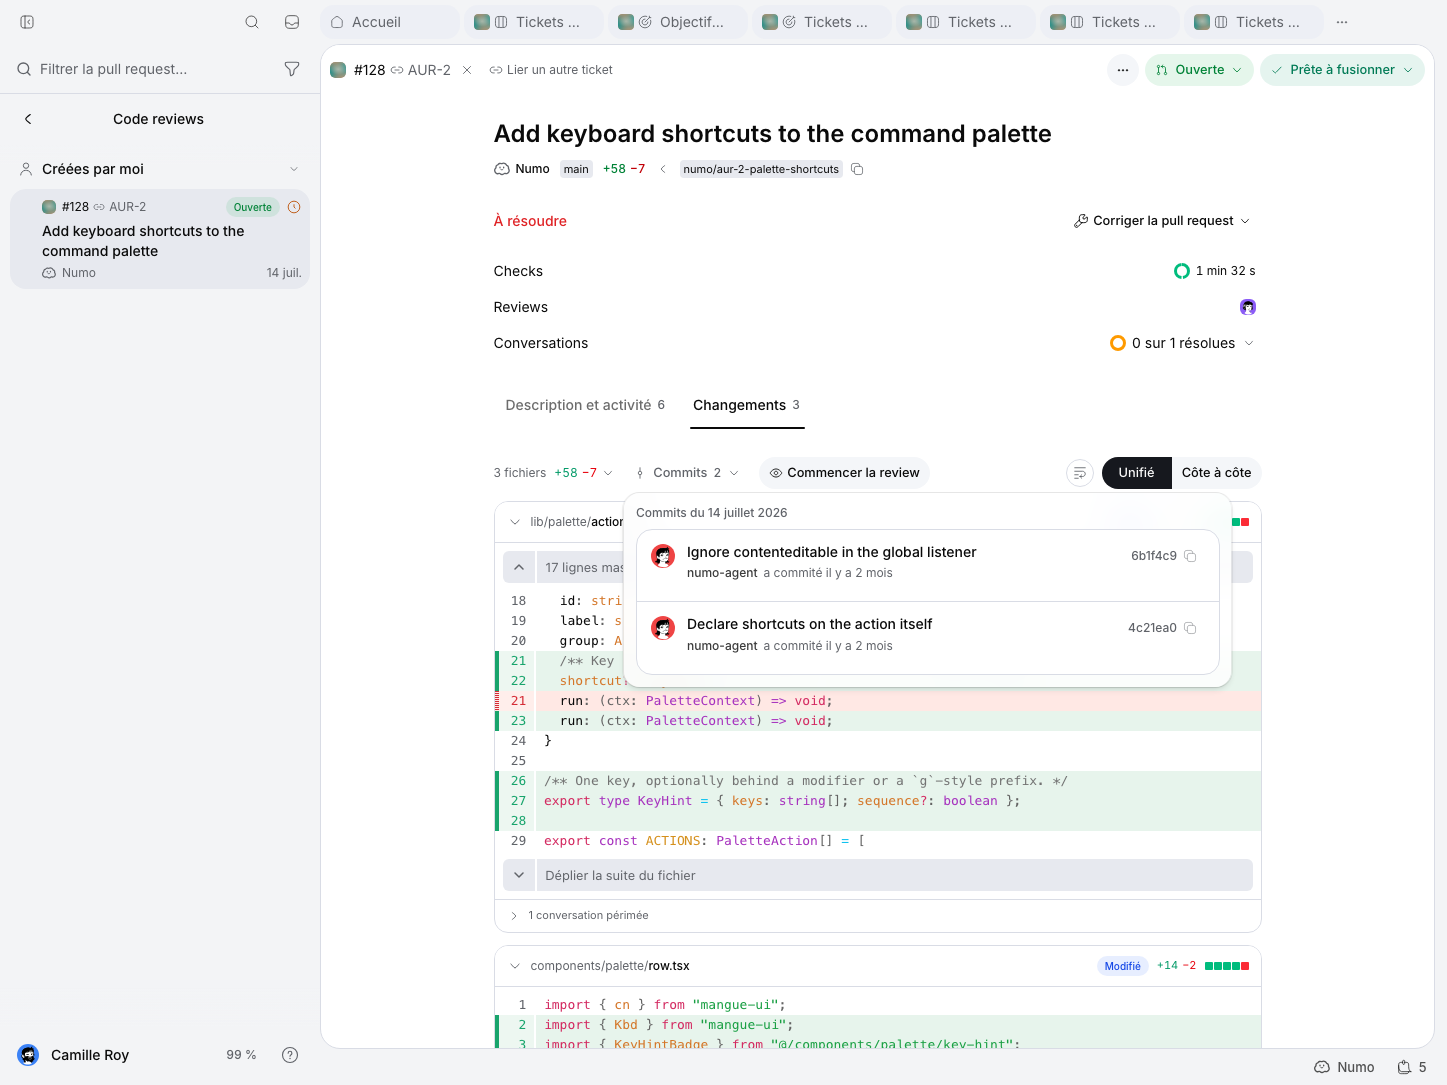
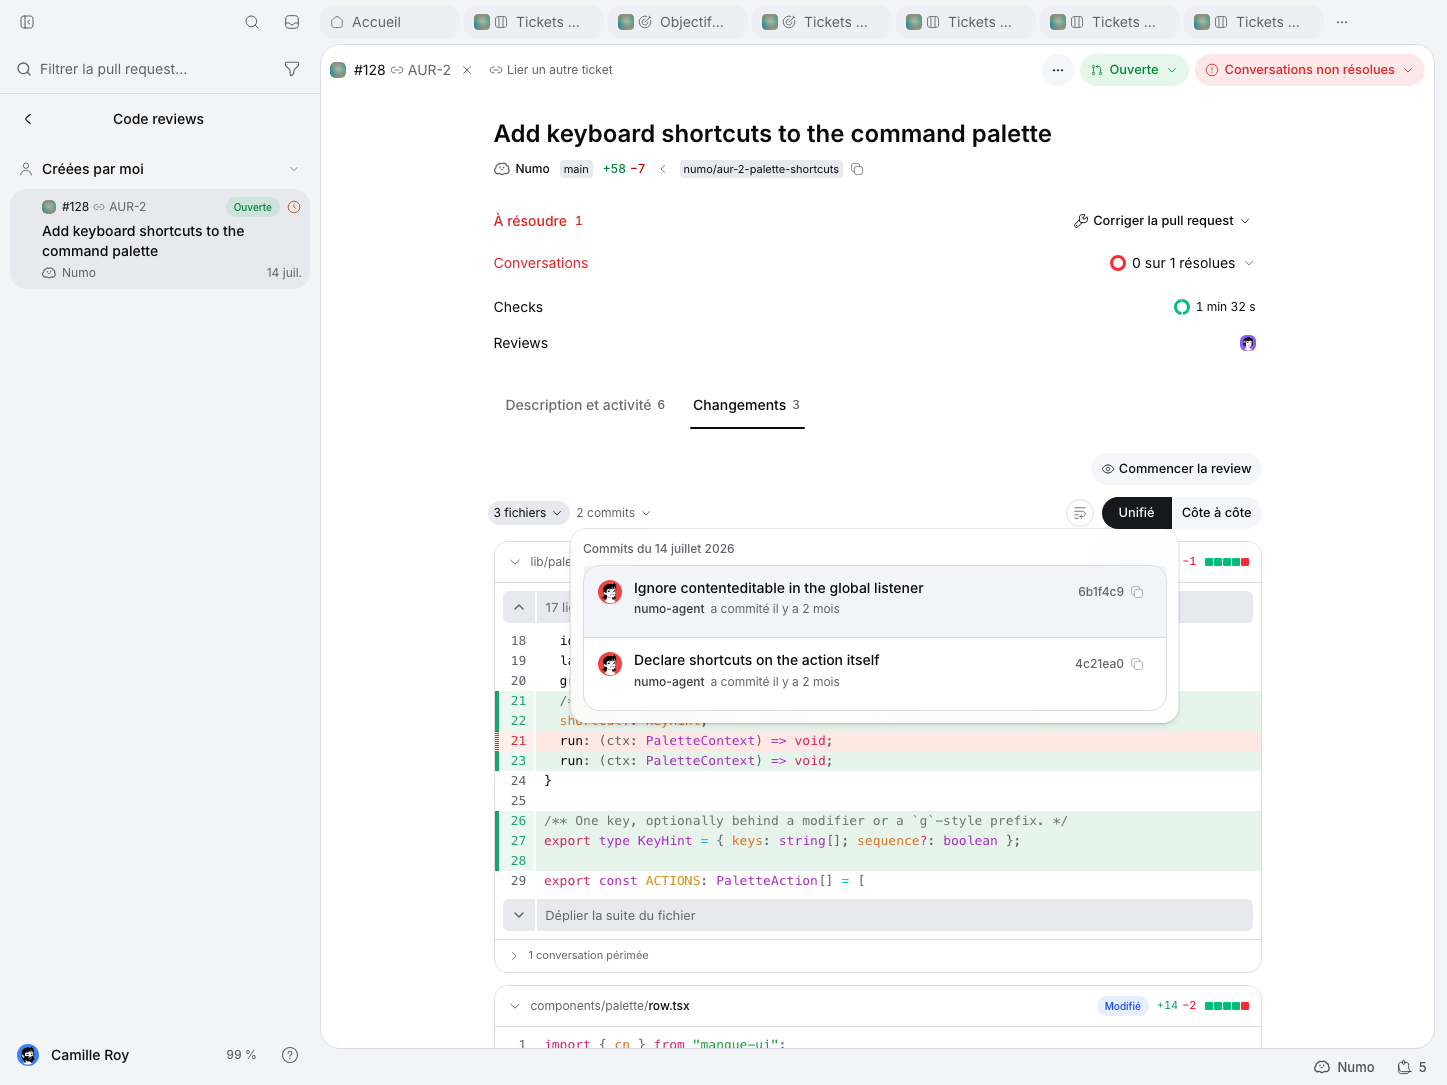
refactor: simplify pull request diff toolbar

diff --git a/components/pull-requests/pr-diff.tsx b/components/pull-requests/pr-diff.tsx
@@ -888,6 +888,7 @@ export function PrDiff({
   onFileReviewedChange,
   reviewControls,
   toolbarActions,
+  showFileTreeTotals = true,
   expandableContext = true,
   canResolve = !readOnly,
   reviewComments = NO_COMMENTS,
@@ -910,12 +911,12 @@ export function PrDiff({
   reviewMode?: boolean;
   reviewedFiles?: ReadonlySet<string>;
   onFileReviewedChange?: (path: string, reviewed: boolean) => void;
-  /** Optional controls rendered INSIDE the toolbar row, next to the file
-      count — the PR page puts its review toggle there so the whole Files
-      tab stays one compact line instead of stacking a second bar. */
+  /** Review actions above the diff display controls, aligned to the right. */
   reviewControls?: ReactNode;
   /** Additional navigation actions, such as the PR commits popover. */
   toolbarActions?: ReactNode;
+  /** Hide repeated aggregate counts when the PR header already shows them. */
+  showFileTreeTotals?: boolean;
   /** Allow lazy loading of context out of hunk. */
   expandableContext?: boolean;
   /** Solve a thread, governed APART (MIN-144): comment request `read` on
@@ -1080,16 +1081,20 @@ export function PrDiff({
       >
         {/* MIN-548: no container behind the toolbar — the controls read
             directly in the page, like any other toolbar. */}
-        <div className="flex min-h-10 flex-wrap items-center gap-2">
-            <PrFileTreeButton
-              files={files}
-              totalAdditions={totalAdd}
-              totalDeletions={totalDel}
-              onSelect={jumpToFile}
-            />
-            {toolbarActions}
-            {reviewControls}
-            <div className="ml-auto flex shrink-0 items-center gap-2">
+        <div data-testid="pr-diff-toolbar" className="flex flex-col gap-2">
+          {reviewControls ? <div className="flex justify-end">{reviewControls}</div> : null}
+          <div className="flex min-h-10 flex-wrap items-center gap-x-1 gap-y-2">
+            <div className="flex items-center gap-3">
+              <PrFileTreeButton
+                files={files}
+                totalAdditions={totalAdd}
+                totalDeletions={totalDel}
+                showTotals={showFileTreeTotals}
+                onSelect={jumpToFile}
+              />
+              {toolbarActions}
+            </div>
+            <div data-testid="pr-diff-display-controls" className="ml-auto flex shrink-0 items-center gap-2">
               <AppTooltip label={t("wrapLines")}>
                 <button
                   type="button"
@@ -1116,6 +1121,7 @@ export function PrDiff({
                 ]}
               />
             </div>
+          </div>
         </div>
 
         <div className="flex flex-col gap-3">

diff --git a/components/pull-requests/pr-file-tree.tsx b/components/pull-requests/pr-file-tree.tsx
@@ -170,11 +170,14 @@ export function PrFileTreeButton({
   files,
   totalAdditions,
   totalDeletions,
+  showTotals = true,
   onSelect,
 }: {
   files: PullRequestFile[];
   totalAdditions: number;
   totalDeletions: number;
+  /** Keep aggregate counts in standalone diffs that have no PR header. */
+  showTotals?: boolean;
   /** Takes to the file: the parent unfolds the card, then scrolls through it. */
   onSelect: (path: string) => void;
 }) {
@@ -238,18 +241,23 @@ export function PrFileTreeButton({
           <PopoverTrigger asChild>
             <button
               ref={triggerRef}
+              data-testid="pr-file-tree-trigger"
               type="button"
-              className="group -mx-1.5 flex min-w-0 items-center rounded-md px-1.5 py-1 text-xs text-muted-foreground transition-colors hover:bg-muted hover:text-foreground data-[state=open]:bg-muted data-[state=open]:text-foreground"
+              className="group -mx-1.5 flex min-w-0 items-center rounded-md px-1.5 py-1 text-xs text-muted-foreground transition-colors hover:bg-muted hover:text-foreground focus-visible:bg-muted focus-visible:text-foreground data-[state=open]:bg-muted data-[state=open]:text-foreground"
             >
               <span className="truncate">
                 {t("fileCount", { count: files.length })}
               </span>
-              <span className="ml-2 shrink-0 tabular-nums text-emerald-600 dark:text-emerald-400">
-                +{totalAdditions}
-              </span>
-              <span className="ml-1 shrink-0 tabular-nums text-red-600 dark:text-red-400">
-                −{totalDeletions}
-              </span>
+              {showTotals ? (
+                <>
+                  <span className="ml-2 shrink-0 tabular-nums text-emerald-600 dark:text-emerald-400">
+                    +{totalAdditions}
+                  </span>
+                  <span className="ml-1 shrink-0 tabular-nums text-red-600 dark:text-red-400">
+                    −{totalDeletions}
+                  </span>
+                </>
+              ) : null}
               <HugeiconsIcon icon={ArrowDown01Icon} className="ml-1 size-3.5 shrink-0 transition-transform group-data-[state=open]:rotate-180" />
             </button>
           </PopoverTrigger>
@@ -257,6 +265,7 @@ export function PrFileTreeButton({
         <TooltipContent>{t("fileTreeHint")}</TooltipContent>
       </Tooltip>
       <PopoverContent
+        data-testid="pr-file-tree-popover"
         align="start"
         container={container}
         onCloseAutoFocus={(event) => {

diff --git a/components/pull-requests/pr-commits.tsx b/components/pull-requests/pr-commits.tsx
@@ -3,11 +3,10 @@
 import { PrCommitsSkeleton } from "@/components/pull-requests/pr-loading-skeleton";
 import { useMemo, useRef, useState } from "react";
 import { AppIcon } from "@/components/icon";
-import { ArrowDown01Icon, GitCommitIcon, ShieldCheckIcon as ShieldCheck } from "@hugeicons/core-free-icons";
+import { ArrowDown01Icon, ShieldCheckIcon as ShieldCheck } from "@hugeicons/core-free-icons";
 import { useFormatter, useTranslations } from "next-intl";
 import {
   Badge,
-  Button,
   Popover,
   PopoverContent,
   PopoverTrigger,
@@ -314,14 +313,22 @@ export function PrCommitsPopover({
   return (
     <>
       <Popover open={open} onOpenChange={setOpen}>
-        <PopoverTrigger asChild>
-          <Button ref={triggerRef} data-testid="pr-commits-trigger" variant="ghost" size="sm" className="gap-1.5 text-muted-foreground">
-            <AppIcon icon={GitCommitIcon} className="size-3.5" />
-            {t("tabCommits")}
-            {count != null ? <span className="text-xs tabular-nums">{count}</span> : null}
-            <AppIcon icon={ArrowDown01Icon} className="size-3.5" />
-          </Button>
-        </PopoverTrigger>
+        <Tooltip>
+          <TooltipTrigger asChild>
+            <PopoverTrigger asChild>
+              <button
+                ref={triggerRef}
+                data-testid="pr-commits-trigger"
+                type="button"
+                className="group -mx-1.5 flex min-w-0 items-center rounded-md px-1.5 py-1 text-xs text-muted-foreground transition-colors hover:bg-muted hover:text-foreground focus-visible:bg-muted focus-visible:text-foreground data-[state=open]:bg-muted data-[state=open]:text-foreground"
+              >
+                <span className="truncate">{count != null ? t("commitCount", { count }) : t("tabCommits")}</span>
+                <AppIcon icon={ArrowDown01Icon} className="ml-1 size-3.5 shrink-0 transition-transform group-data-[state=open]:rotate-180" />
+              </button>
+            </PopoverTrigger>
+          </TooltipTrigger>
+          <TooltipContent>{t("commitsHint")}</TooltipContent>
+        </Tooltip>
         <PopoverContent
           data-testid="pr-commits-popover"
           align="start"

diff --git a/components/pull-requests/pr-detail.tsx b/components/pull-requests/pr-detail.tsx
@@ -2289,11 +2289,10 @@ export function PrDetail({
                 <PrFilesSkeleton />
               ) : pr ? (
                 <div className="flex flex-col gap-3">
-                  {/* MIN-548: the review mode lives INSIDE the diff toolbar —
-                      one single line under the tab, with the file count, the
-                      display switches and the review toggle. */}
+                  {/* Review actions sit above the display controls in the diff toolbar. */}
                   <PrDiff
                     files={files}
+                    showFileTreeTotals={false}
                     endpoint={prEndpoint(item.prId)}
                     prUrl={pr.url}
                     provider={item.provider}
@@ -2324,7 +2323,7 @@ export function PrDetail({
                     }
                     reviewControls={
                       canComment ? (
-                        <div data-testid="pr-file-review-toolbar" className="flex items-center gap-2">
+                        <div data-testid="pr-file-review-toolbar" className="flex flex-wrap items-center justify-end gap-2">
                           {fileReviewActive ? (
                             <span className="text-xs text-muted-foreground">
                               {t("reviewFileProgress", {
